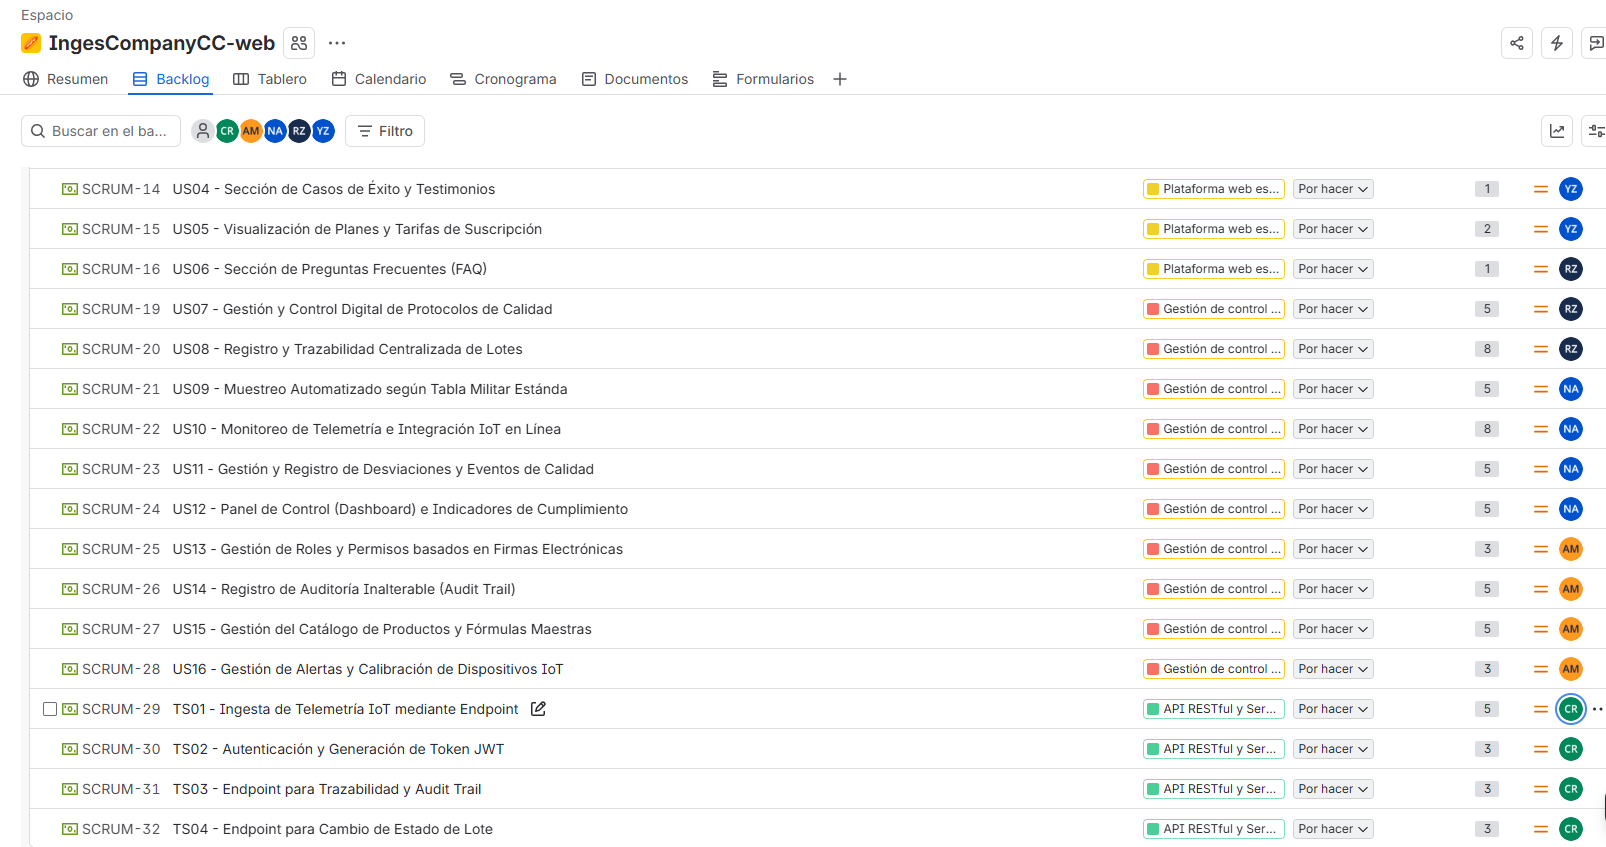
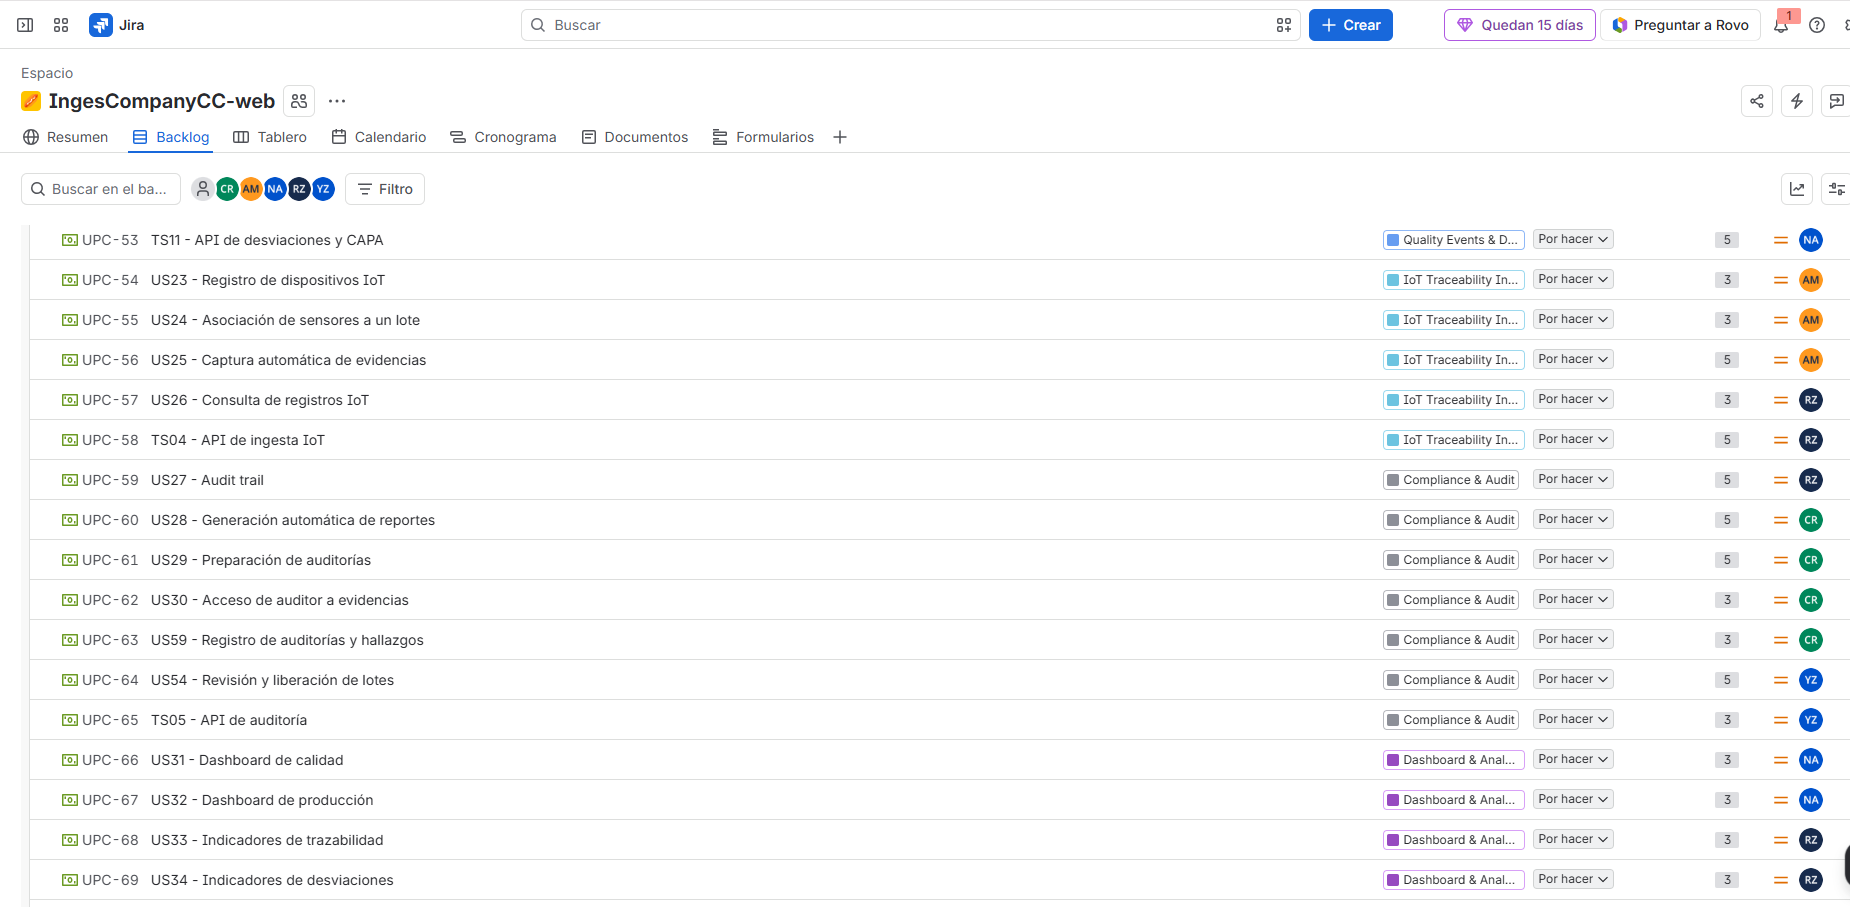
docs(chapter3): update about the section Product Backlog in Jira

diff --git a/docs/chapter3.md b/docs/chapter3.md
@@ -179,4 +179,4 @@ A continuación, se muestra la gestión del backlog en la herramienta Jira Softw
 ![Evidence Product Backlog Jira](../assets/img/chapter3/backlog.png)
 *Figura: Captura del Product Backlog en Jira Software.*
 
-**Enlace al Product Backlog en Jira:** [click aquí](https://inges-company-cc.atlassian.net/jira/software/projects/SCRUM/boards/1/backlog?atlOrigin=eyJpIjoiNzQ5MjEwOGYzMjI3NDg3OGIxNTg3MmZkNzY5ZGJmMjUiLCJwIjoiaiJ9)
+**Enlace al Product Backlog en Jira:** [click aquí](https://inges-company-cc.atlassian.net/jira/software/projects/UPC/boards/1/backlog?atlOrigin=eyJpIjoiN2EwNDdhZWYwMDI1NDhmMDgxMGZiZWM1Y2Q4YTJlNGMiLCJwIjoiaiJ9)
